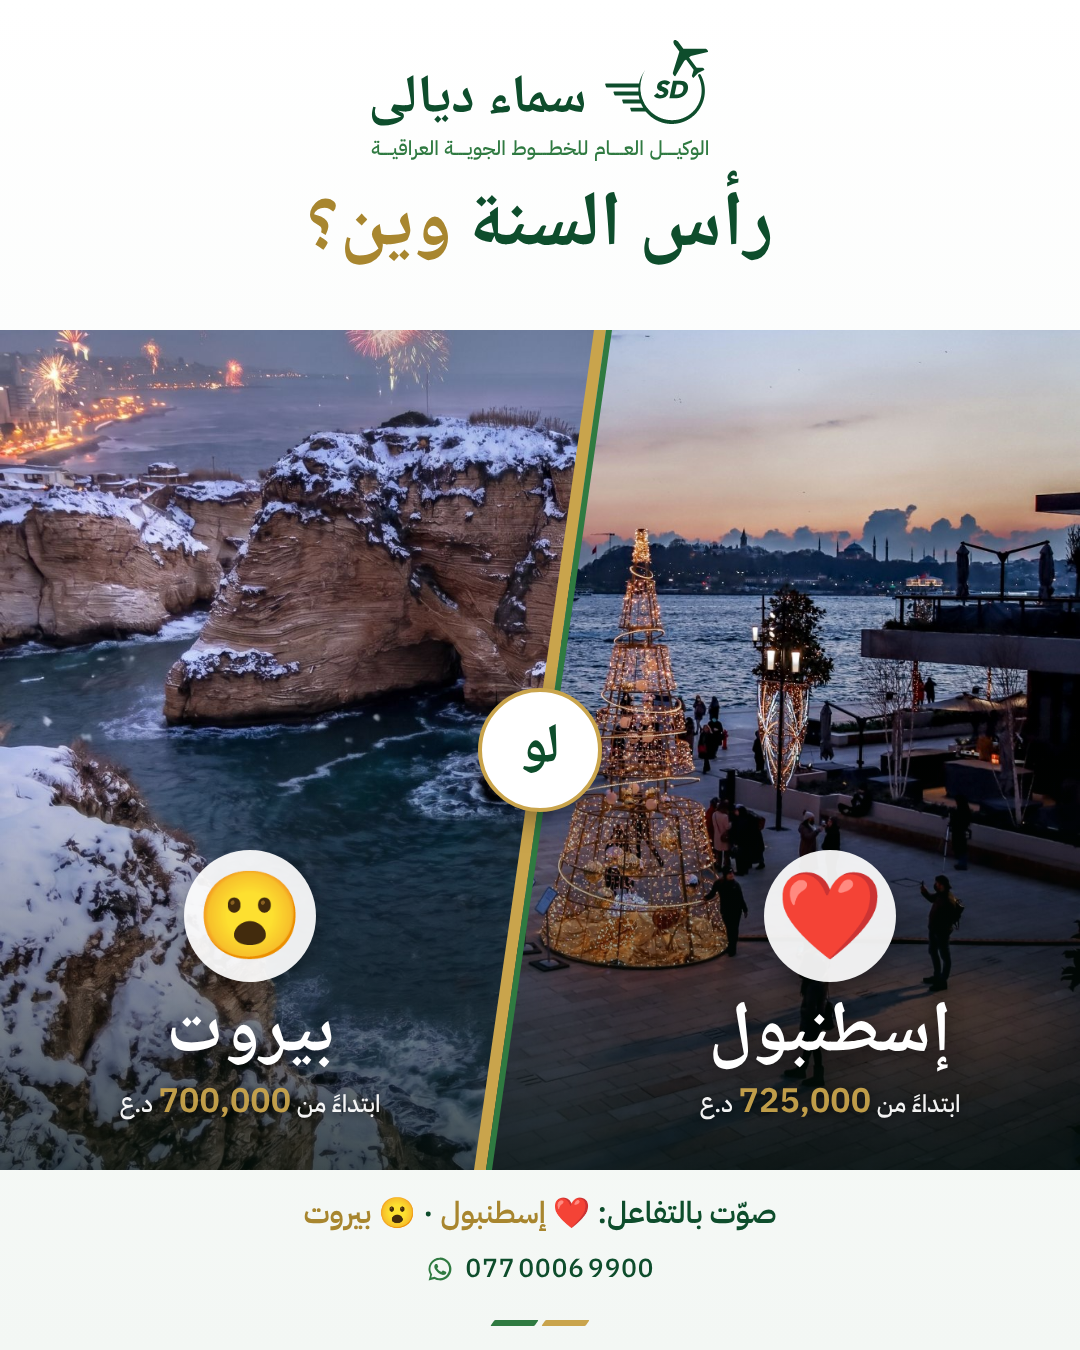
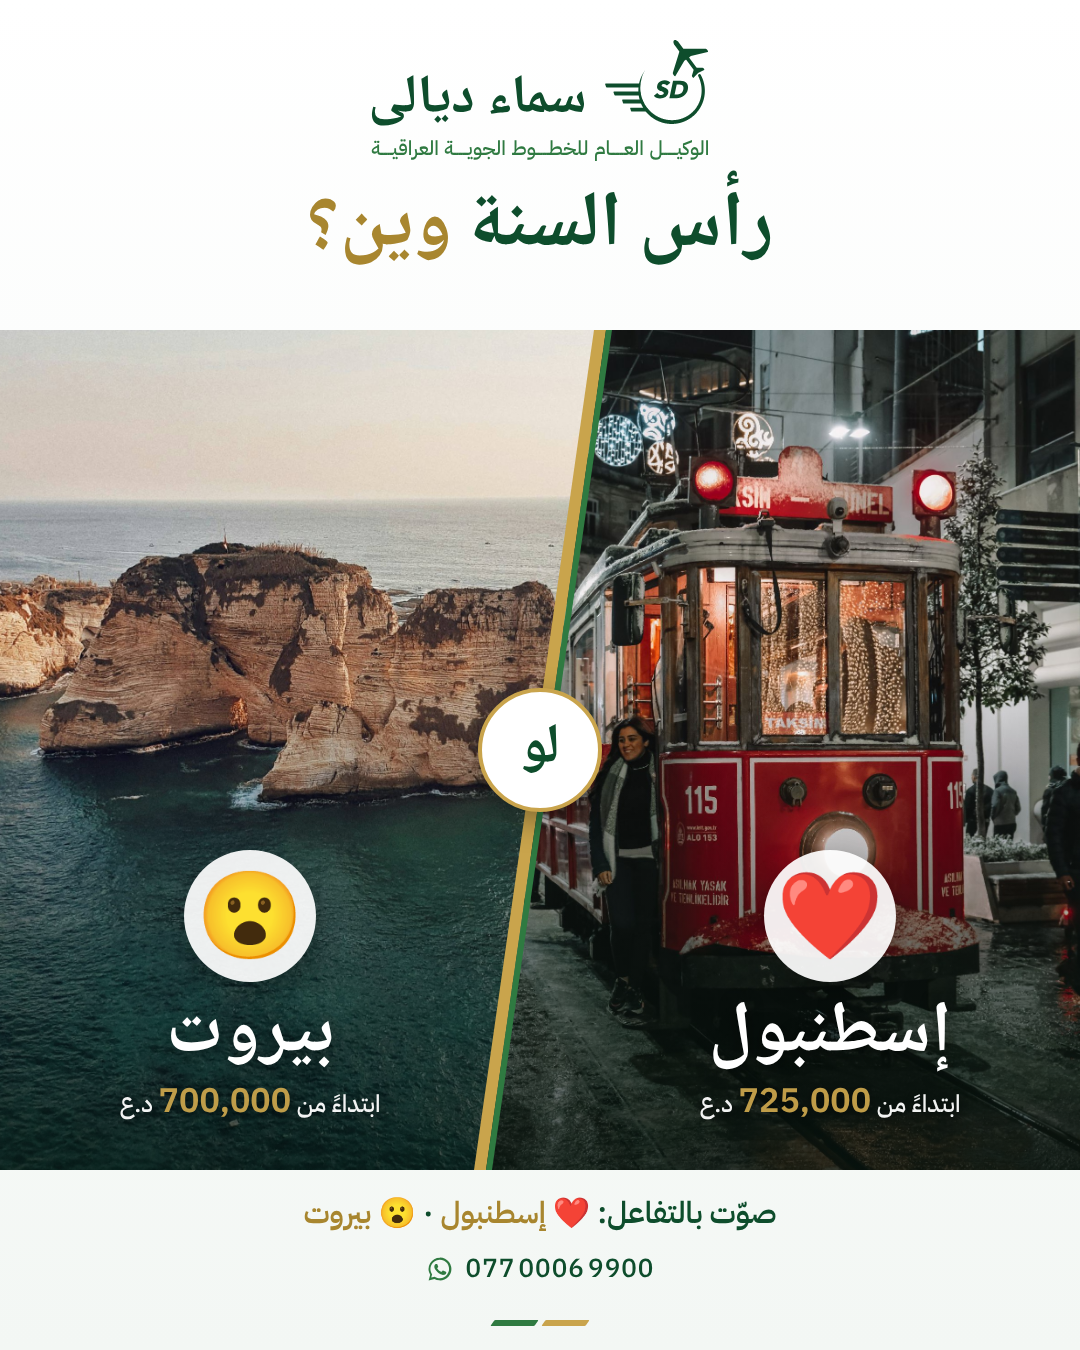
Istanbul-or-Beirut post: swap both photos
Claude-Session: https://claude.ai/code/session_01EprWPUJDuKvYHn821imCPv

diff --git a/09-التصاميم/إسطنبول لو بيروت/إعلان.html b/09-التصاميم/إسطنبول لو بيروت/إعلان.html
@@ -25,9 +25,9 @@ html,body{width:1080px;height:1350px;overflow:hidden}
 .q h1{font-family:Naskh;font-weight:700;font-size:78px;line-height:1.1}
 .q h1 span{color:var(--dgold)}
 .ph{position:absolute;left:0;right:0;top:330px;height:840px}
-.half{position:absolute;inset:0;background-size:cover}
-.ist{background-image:url("../../08-الصور/وجهات/إسطنبول - شجرة الأضواء على البوسفور (معالجة خفيفة).jpg");background-position:60% 70%;clip-path:polygon(600px 0,1080px 0,1080px 840px,480px 840px)}
-.bey{background-image:url("../../08-الصور/وجهات/بيروت - الروشة بالثلج والألعاب النارية (الأصل).jpg");background-position:45% 55%;clip-path:polygon(0 0,600px 0,480px 840px,0 840px)}
+.half{position:absolute;top:0;bottom:0;width:610px;background-size:cover}
+.ist{left:470px;background-image:url("../../08-الصور/وجهات/إسطنبول - ترام شارع الاستقلال ليلاً (الأصل).jpg");background-position:50% 62%;clip-path:polygon(130px 0,610px 0,610px 840px,10px 840px)}
+.bey{left:0;background-image:url("../../08-الصور/وجهات/بيروت - صخرة الروشة (طبيعية بأفق مستوٍ).jpg");background-position:40% 50%;clip-path:polygon(0 0,600px 0,480px 840px,0 840px)}
 .shade{position:absolute;inset:0;background:linear-gradient(180deg,rgba(0,0,0,0) 45%,rgba(4,18,12,.72) 100%)}
 .div{position:absolute;inset:0}
 .vs{position:absolute;left:540px;top:420px;width:124px;height:124px;margin:-62px 0 0 -62px;border-radius:50%;background:#fff;border:4px solid var(--gold);

diff --git a/CLAUDE.md b/CLAUDE.md
@@ -105,7 +105,7 @@
 
 ## منشورات التفاعل
 - سلسلة "خمّن الوجهة" (من 23 تشرين الثاني 2026): بطاقة صعود BGW ← ؟؟؟ بأرقام قلّابة (بلا خانات المسافر والمقعد والجواب، والطائرة على المسار تتجه من بغداد إلى الوجهة)، بالتصميم الفاتح قليل الخضرة، وثلاث بطاقات تلميحات بأيقونات ذهبية، و"اكتب جوابك بالتعليقات"، والجواب في ستوري اليوم التالي مع عرض الوجهة إن وُجد. الحلقة الأولى إسطنبول (جسر يربط قارتين، ترام أحمر، شاي بكوب زجاج): `09-التصاميم/خمن الوجهة - 1/`. لا يُكتب اسم الوجهة في النص ولا الهاشتاغات.
-- "رأس السنة وين؟ إسطنبول لو بيروت" (23 تشرين الثاني 2026): `09-التصاميم/إسطنبول لو بيروت/`، صورتان بفاصل مائل ذهبي وأخضر ودائرة "لو"، والتصويت بالتفاعل ❤ إسطنبول و😮 بيروت (وبالتعليقات في إنستغرام)، مع أقل سعر لكل وجهة. سعر بيروت في الجدول صار 700,000 د.ع (4 أيام / 3 ليالٍ، فندق الإليزيه) بدل 670,000.
+- "رأس السنة وين؟ إسطنبول لو بيروت" (23 تشرين الثاني 2026): `09-التصاميم/إسطنبول لو بيروت/`، صورتان (ترام الاستقلال ليلاً، وصخرة الروشة الطبيعية) بفاصل مائل ذهبي وأخضر ودائرة "لو"، كل صورة بمقاس نصفها، والتصويت بالتفاعل ❤ إسطنبول و😮 بيروت (وبالتعليقات في إنستغرام)، مع أقل سعر لكل وجهة. سعر بيروت في الجدول صار 700,000 د.ع (4 أيام / 3 ليالٍ، فندق الإليزيه) بدل 670,000.
 
 ## قواعد ثابتة لكل التصاميم
 - السعر كاملاً بصيغة "725,000 د.ع".
